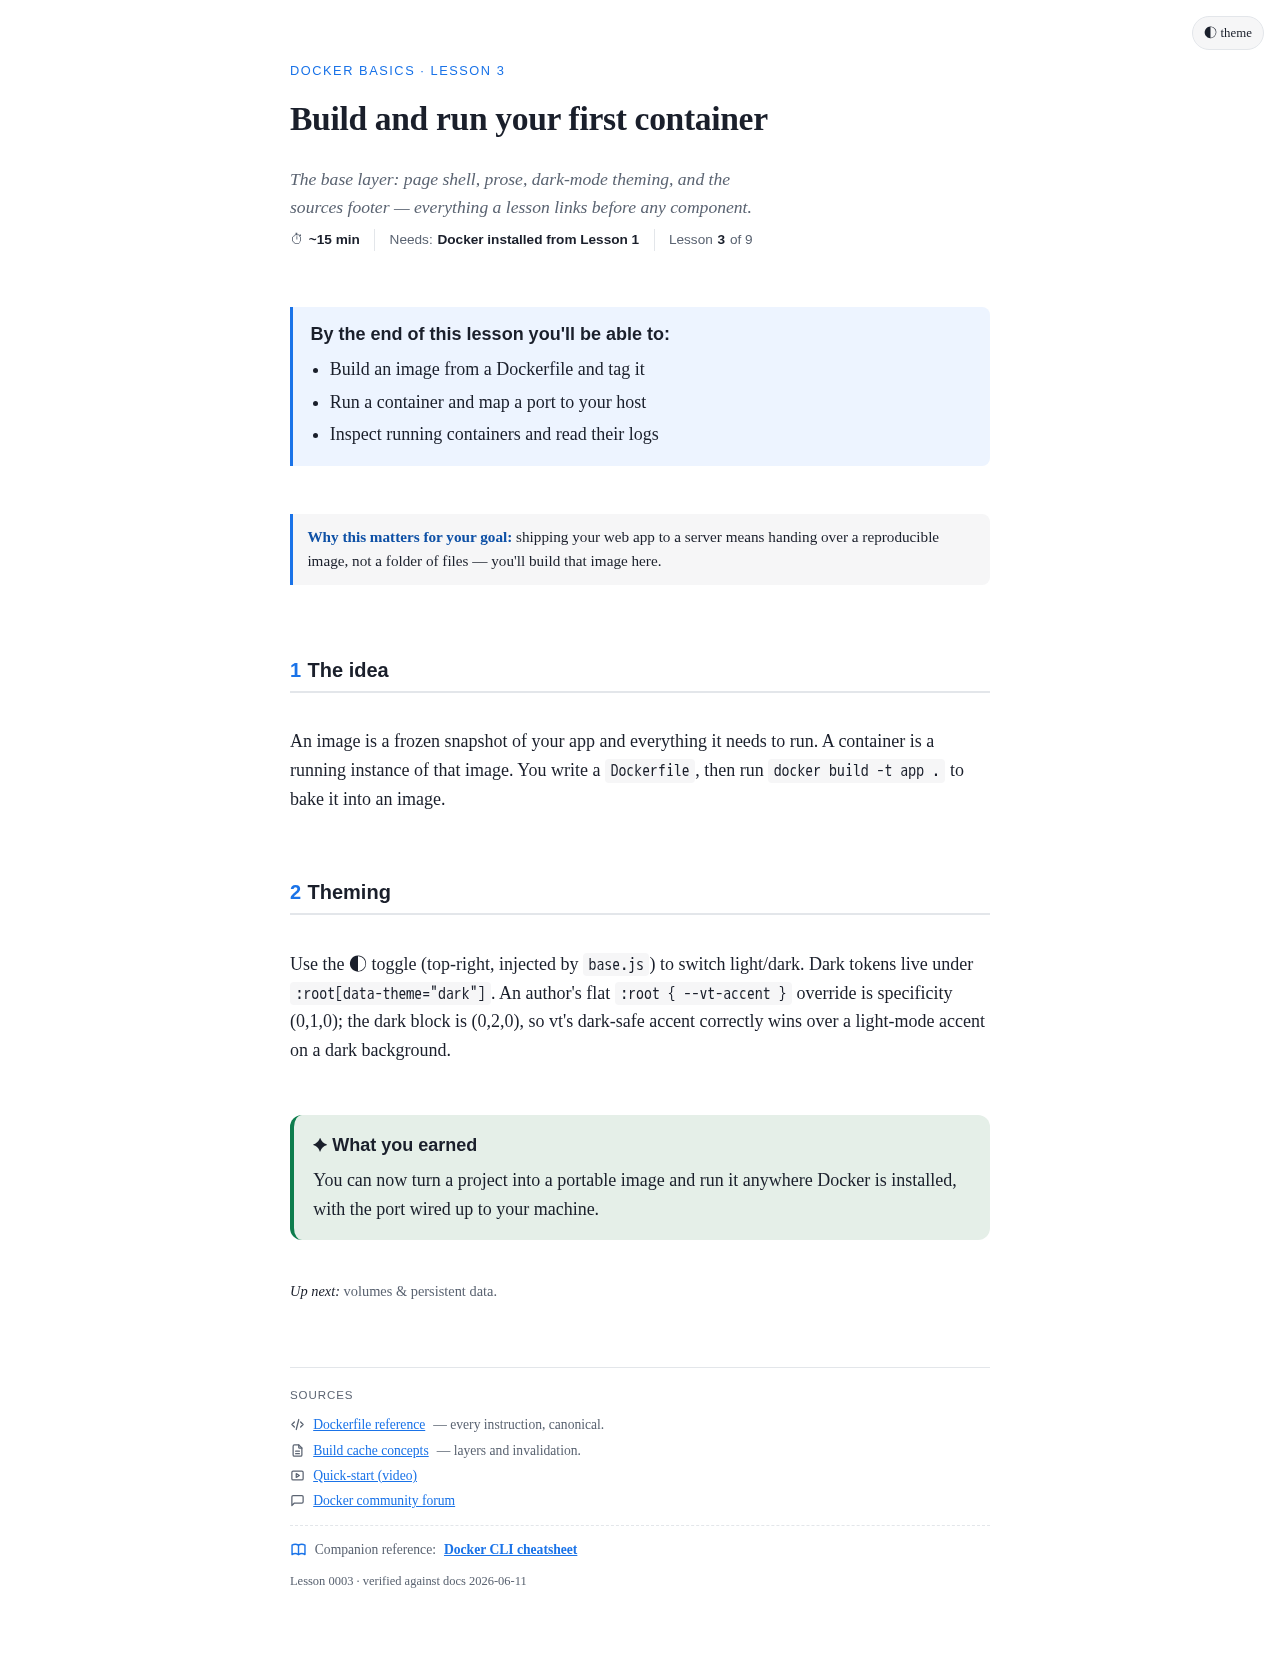
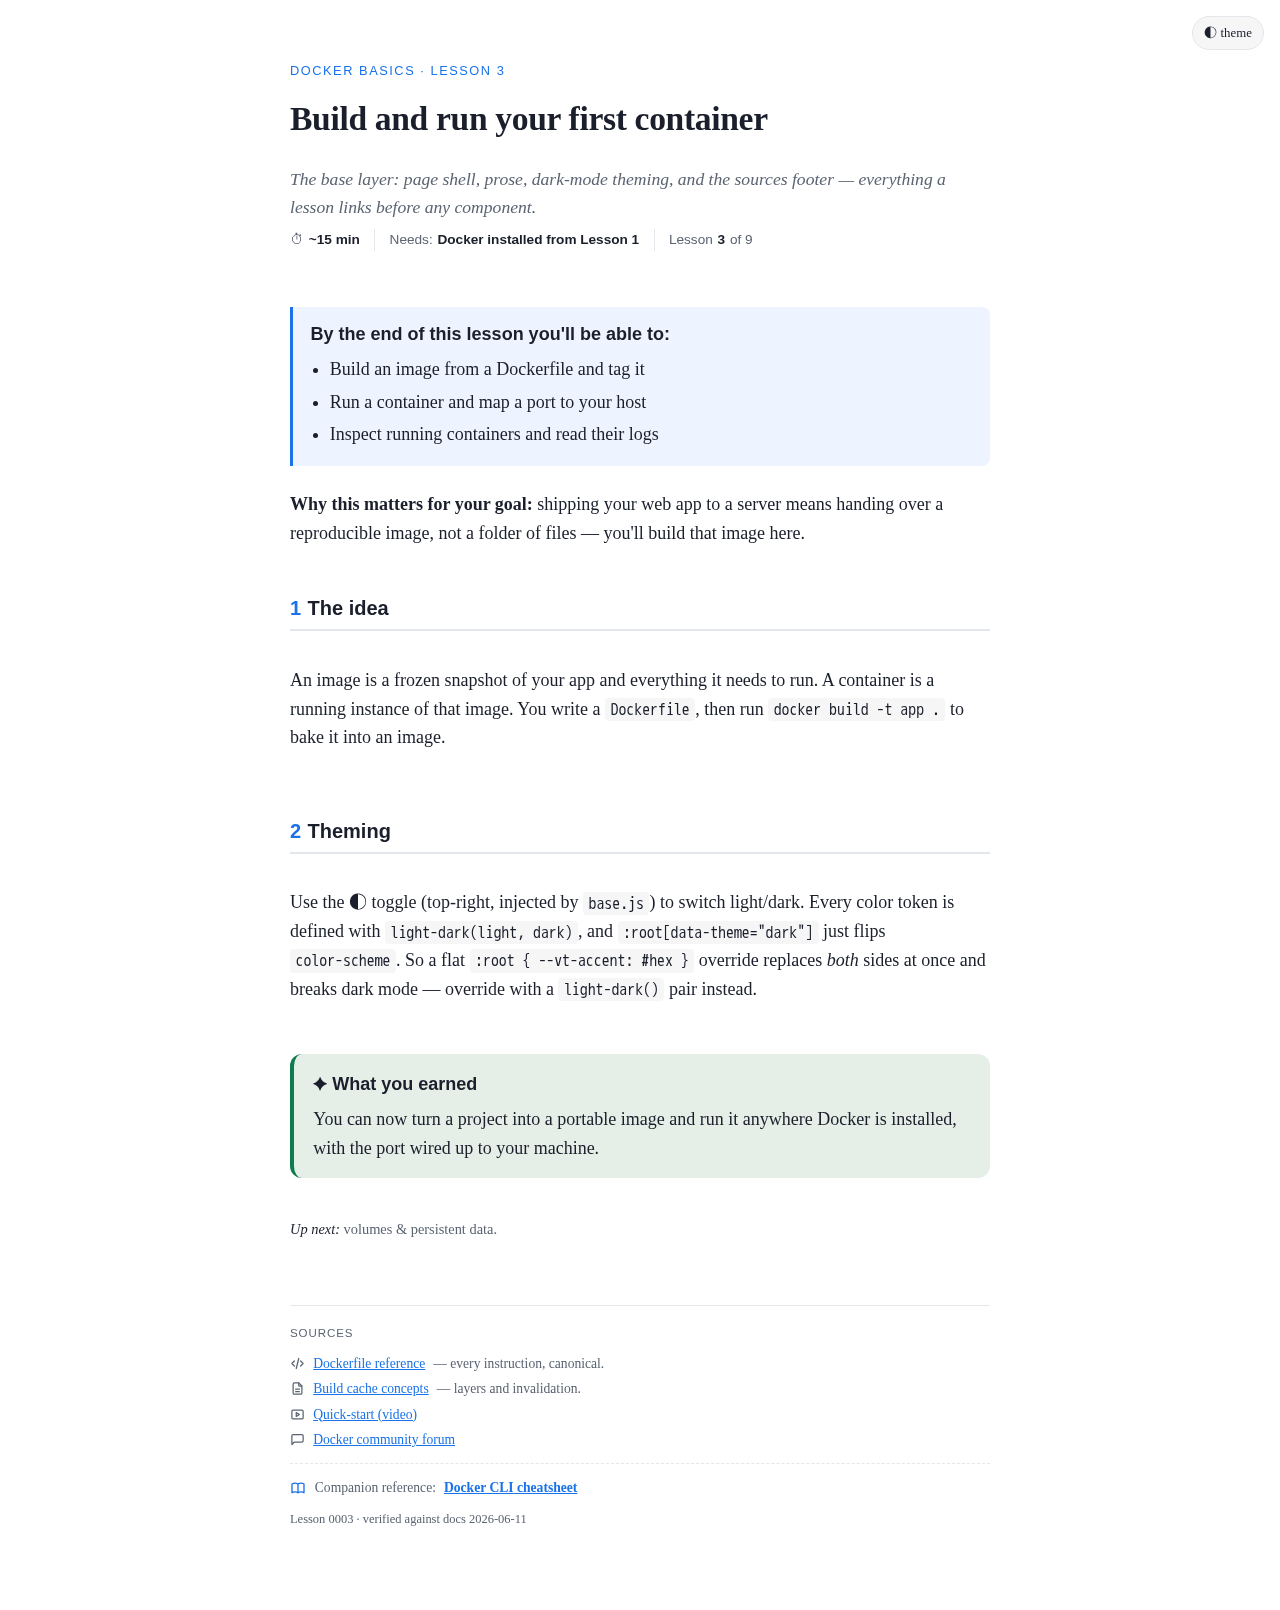
fix(visual-teach): collapse intro card + fix lede/reveal wrapping (#223)
* fix(visual-teach): collapse intro card + fix lede/reveal wrapping

Header polish across the component floor:

- Merge objectives + mission into a single `vt-objectives` intro card;
  author picks whatever sets up the lesson (list, why-it-matters, hook)
  instead of two stacked blocks that doubled header height and pushed
  boilerplate prose. Drop the `vt-mission` class and catalog block.
- `.vt-lede`: drop `text-wrap: balance`, which shrank the subtitle to a
  balanced measure unlike body prose; let it fill the column.
- `.vt-reveal > summary`: replace `display: flex` (which split text and
  inline `<code>` into separate flex items, breaking sentence wrapping)
  with a relative summary + absolutely-positioned marker, so the prompt
  flows as normal text.

Demos re-synced and their orphaned `vt-mission` divs removed.

* test(visual): regen base baselines for collapsed intro card

The single-card intro + removed mission shortens the base demo (1671→1610px
dark). Regenerated base.png / base-dark.png via docker:regen-baselines (CI
container) to match.

---------

diff --git a/assets/base/base.css b/assets/base/base.css
@@ -115,7 +115,6 @@ h1 {
   color: var(--vt-muted);
   font-style: italic;
   margin-bottom: 0.5rem;
-  text-wrap: balance;
 }
 .vt-meta {
   font-family: "Helvetica Neue", Arial, sans-serif;
@@ -258,7 +257,7 @@ a code {
   }
 }
 
-/* shell — objectives card */
+/* shell — intro card (objectives, why-it-matters, hook — author's call) */
 .vt-objectives {
   border-left: 3px solid var(--vt-accent);
   border-radius: 0 8px 8px 0;
@@ -278,17 +277,13 @@ a code {
 .vt-objectives li {
   margin: 0.25rem 0;
 }
-
-/* shell — mission tie-in */
-.vt-mission {
-  border-left: 3px solid var(--vt-accent);
-  border-radius: 0 8px 8px 0;
-  background: var(--vt-soft);
-  padding: 0.7rem 0.9rem;
-  margin: 1.5rem 0;
-  font-size: 0.95rem;
+.vt-objectives p {
+  margin: 0.4rem 0 0;
 }
-.vt-mission strong {
+.vt-objectives p:first-child {
+  margin-top: 0;
+}
+.vt-objectives strong {
   color: var(--vt-accent-dk);
 }
 

diff --git a/demo/adoption-demos/bayes-theorem/visual-teach/assets/base/base.css b/demo/adoption-demos/bayes-theorem/visual-teach/assets/base/base.css
@@ -115,7 +115,6 @@ h1 {
   color: var(--vt-muted);
   font-style: italic;
   margin-bottom: 0.5rem;
-  text-wrap: balance;
 }
 .vt-meta {
   font-family: "Helvetica Neue", Arial, sans-serif;
@@ -258,7 +257,7 @@ a code {
   }
 }
 
-/* shell — objectives card */
+/* shell — intro card (objectives, why-it-matters, hook — author's call) */
 .vt-objectives {
   border-left: 3px solid var(--vt-accent);
   border-radius: 0 8px 8px 0;
@@ -278,17 +277,13 @@ a code {
 .vt-objectives li {
   margin: 0.25rem 0;
 }
-
-/* shell — mission tie-in */
-.vt-mission {
-  border-left: 3px solid var(--vt-accent);
-  border-radius: 0 8px 8px 0;
-  background: var(--vt-soft);
-  padding: 0.7rem 0.9rem;
-  margin: 1.5rem 0;
-  font-size: 0.95rem;
+.vt-objectives p {
+  margin: 0.4rem 0 0;
 }
-.vt-mission strong {
+.vt-objectives p:first-child {
+  margin-top: 0;
+}
+.vt-objectives strong {
   color: var(--vt-accent-dk);
 }
 

diff --git a/demo/adoption-demos/css-flexbox/visual-teach/assets/base/base.css b/demo/adoption-demos/css-flexbox/visual-teach/assets/base/base.css
@@ -115,7 +115,6 @@ h1 {
   color: var(--vt-muted);
   font-style: italic;
   margin-bottom: 0.5rem;
-  text-wrap: balance;
 }
 .vt-meta {
   font-family: "Helvetica Neue", Arial, sans-serif;
@@ -258,7 +257,7 @@ a code {
   }
 }
 
-/* shell — objectives card */
+/* shell — intro card (objectives, why-it-matters, hook — author's call) */
 .vt-objectives {
   border-left: 3px solid var(--vt-accent);
   border-radius: 0 8px 8px 0;
@@ -278,17 +277,13 @@ a code {
 .vt-objectives li {
   margin: 0.25rem 0;
 }
-
-/* shell — mission tie-in */
-.vt-mission {
-  border-left: 3px solid var(--vt-accent);
-  border-radius: 0 8px 8px 0;
-  background: var(--vt-soft);
-  padding: 0.7rem 0.9rem;
-  margin: 1.5rem 0;
-  font-size: 0.95rem;
+.vt-objectives p {
+  margin: 0.4rem 0 0;
 }
-.vt-mission strong {
+.vt-objectives p:first-child {
+  margin-top: 0;
+}
+.vt-objectives strong {
   color: var(--vt-accent-dk);
 }
 

diff --git a/demo/adoption-demos/git-rebase-vs-merge/visual-teach/assets/base/base.css b/demo/adoption-demos/git-rebase-vs-merge/visual-teach/assets/base/base.css
@@ -115,7 +115,6 @@ h1 {
   color: var(--vt-muted);
   font-style: italic;
   margin-bottom: 0.5rem;
-  text-wrap: balance;
 }
 .vt-meta {
   font-family: "Helvetica Neue", Arial, sans-serif;
@@ -258,7 +257,7 @@ a code {
   }
 }
 
-/* shell — objectives card */
+/* shell — intro card (objectives, why-it-matters, hook — author's call) */
 .vt-objectives {
   border-left: 3px solid var(--vt-accent);
   border-radius: 0 8px 8px 0;
@@ -278,17 +277,13 @@ a code {
 .vt-objectives li {
   margin: 0.25rem 0;
 }
-
-/* shell — mission tie-in */
-.vt-mission {
-  border-left: 3px solid var(--vt-accent);
-  border-radius: 0 8px 8px 0;
-  background: var(--vt-soft);
-  padding: 0.7rem 0.9rem;
-  margin: 1.5rem 0;
-  font-size: 0.95rem;
+.vt-objectives p {
+  margin: 0.4rem 0 0;
 }
-.vt-mission strong {
+.vt-objectives p:first-child {
+  margin-top: 0;
+}
+.vt-objectives strong {
   color: var(--vt-accent-dk);
 }
 

diff --git a/demo/adoption-demos/music-intervals/visual-teach/assets/base/base.css b/demo/adoption-demos/music-intervals/visual-teach/assets/base/base.css
@@ -115,7 +115,6 @@ h1 {
   color: var(--vt-muted);
   font-style: italic;
   margin-bottom: 0.5rem;
-  text-wrap: balance;
 }
 .vt-meta {
   font-family: "Helvetica Neue", Arial, sans-serif;
@@ -258,7 +257,7 @@ a code {
   }
 }
 
-/* shell — objectives card */
+/* shell — intro card (objectives, why-it-matters, hook — author's call) */
 .vt-objectives {
   border-left: 3px solid var(--vt-accent);
   border-radius: 0 8px 8px 0;
@@ -278,17 +277,13 @@ a code {
 .vt-objectives li {
   margin: 0.25rem 0;
 }
-
-/* shell — mission tie-in */
-.vt-mission {
-  border-left: 3px solid var(--vt-accent);
-  border-radius: 0 8px 8px 0;
-  background: var(--vt-soft);
-  padding: 0.7rem 0.9rem;
-  margin: 1.5rem 0;
-  font-size: 0.95rem;
+.vt-objectives p {
+  margin: 0.4rem 0 0;
 }
-.vt-mission strong {
+.vt-objectives p:first-child {
+  margin-top: 0;
+}
+.vt-objectives strong {
   color: var(--vt-accent-dk);
 }
 

diff --git a/demo/adoption-demos/regular-expressions/visual-teach/assets/base/base.css b/demo/adoption-demos/regular-expressions/visual-teach/assets/base/base.css
@@ -115,7 +115,6 @@ h1 {
   color: var(--vt-muted);
   font-style: italic;
   margin-bottom: 0.5rem;
-  text-wrap: balance;
 }
 .vt-meta {
   font-family: "Helvetica Neue", Arial, sans-serif;
@@ -258,7 +257,7 @@ a code {
   }
 }
 
-/* shell — objectives card */
+/* shell — intro card (objectives, why-it-matters, hook — author's call) */
 .vt-objectives {
   border-left: 3px solid var(--vt-accent);
   border-radius: 0 8px 8px 0;
@@ -278,17 +277,13 @@ a code {
 .vt-objectives li {
   margin: 0.25rem 0;
 }
-
-/* shell — mission tie-in */
-.vt-mission {
-  border-left: 3px solid var(--vt-accent);
-  border-radius: 0 8px 8px 0;
-  background: var(--vt-soft);
-  padding: 0.7rem 0.9rem;
-  margin: 1.5rem 0;
-  font-size: 0.95rem;
+.vt-objectives p {
+  margin: 0.4rem 0 0;
 }
-.vt-mission strong {
+.vt-objectives p:first-child {
+  margin-top: 0;
+}
+.vt-objectives strong {
   color: var(--vt-accent-dk);
 }
 

diff --git a/demo/adoption-demos/tls-handshake/visual-teach/assets/base/base.css b/demo/adoption-demos/tls-handshake/visual-teach/assets/base/base.css
@@ -115,7 +115,6 @@ h1 {
   color: var(--vt-muted);
   font-style: italic;
   margin-bottom: 0.5rem;
-  text-wrap: balance;
 }
 .vt-meta {
   font-family: "Helvetica Neue", Arial, sans-serif;
@@ -258,7 +257,7 @@ a code {
   }
 }
 
-/* shell — objectives card */
+/* shell — intro card (objectives, why-it-matters, hook — author's call) */
 .vt-objectives {
   border-left: 3px solid var(--vt-accent);
   border-radius: 0 8px 8px 0;
@@ -278,17 +277,13 @@ a code {
 .vt-objectives li {
   margin: 0.25rem 0;
 }
-
-/* shell — mission tie-in */
-.vt-mission {
-  border-left: 3px solid var(--vt-accent);
-  border-radius: 0 8px 8px 0;
-  background: var(--vt-soft);
-  padding: 0.7rem 0.9rem;
-  margin: 1.5rem 0;
-  font-size: 0.95rem;
+.vt-objectives p {
+  margin: 0.4rem 0 0;
 }
-.vt-mission strong {
+.vt-objectives p:first-child {
+  margin-top: 0;
+}
+.vt-objectives strong {
   color: var(--vt-accent-dk);
 }
 

diff --git a/demo/adoption-demos/tls-handshake/visual-teach/lessons/0003-trust-and-failure.html b/demo/adoption-demos/tls-handshake/visual-teach/lessons/0003-trust-and-failure.html
@@ -41,16 +41,6 @@
         </ul>
       </div>
 
-      <div class="vt-mission">
-        <strong>Why this matters for your goal:</strong> This is the lesson the
-        whole course was for. Everything from
-        <a href="0001-what-tls-protects-and-who-is-involved.html">Lesson&nbsp;1</a>
-        (the actors, the certificate) and
-        <a href="0002-the-handshake-step-by-step.html">Lesson&nbsp;2</a> (where in
-        the flow the certificate shows up) now turns into a checklist you can run
-        on a broken connection.
-      </div>
-
       <h2><span class="vt-num">1</span>The chain of trust</h2>
       <p>
         Your client trusts a few dozen <strong>root CAs</strong> baked into its

diff --git a/assets/components/reveal/reveal.css b/assets/components/reveal/reveal.css
@@ -12,17 +12,18 @@
   font-family: "Helvetica Neue", Arial, sans-serif;
   font-weight: 600;
   cursor: pointer;
-  padding: 0.9rem 0.2rem;
+  padding: 0.9rem 0.2rem 0.9rem 1.6rem;
   list-style: none; /* hide default disclosure triangle; we draw our own */
-  display: flex;
-  align-items: baseline;
-  gap: 0.5rem;
+  position: relative; /* anchor the ▸ marker; summary text flows as prose
+                          so inline <code> wraps normally (not as flex items) */
 }
 .vt-reveal > summary::-webkit-details-marker {
   display: none; /* Safari/Chrome legacy marker */
 }
 .vt-reveal > summary::before {
   content: "▸";
+  position: absolute;
+  left: 0.3rem;
   color: var(--vt-accent);
   font-size: 0.9em;
   transition: transform 0.15s;

diff --git a/demo/adoption-demos/bayes-theorem/visual-teach/assets/components/reveal/reveal.css b/demo/adoption-demos/bayes-theorem/visual-teach/assets/components/reveal/reveal.css
@@ -12,17 +12,18 @@
   font-family: "Helvetica Neue", Arial, sans-serif;
   font-weight: 600;
   cursor: pointer;
-  padding: 0.9rem 0.2rem;
+  padding: 0.9rem 0.2rem 0.9rem 1.6rem;
   list-style: none; /* hide default disclosure triangle; we draw our own */
-  display: flex;
-  align-items: baseline;
-  gap: 0.5rem;
+  position: relative; /* anchor the ▸ marker; summary text flows as prose
+                          so inline <code> wraps normally (not as flex items) */
 }
 .vt-reveal > summary::-webkit-details-marker {
   display: none; /* Safari/Chrome legacy marker */
 }
 .vt-reveal > summary::before {
   content: "▸";
+  position: absolute;
+  left: 0.3rem;
   color: var(--vt-accent);
   font-size: 0.9em;
   transition: transform 0.15s;

diff --git a/demo/adoption-demos/css-flexbox/visual-teach/assets/components/reveal/reveal.css b/demo/adoption-demos/css-flexbox/visual-teach/assets/components/reveal/reveal.css
@@ -12,17 +12,18 @@
   font-family: "Helvetica Neue", Arial, sans-serif;
   font-weight: 600;
   cursor: pointer;
-  padding: 0.9rem 0.2rem;
+  padding: 0.9rem 0.2rem 0.9rem 1.6rem;
   list-style: none; /* hide default disclosure triangle; we draw our own */
-  display: flex;
-  align-items: baseline;
-  gap: 0.5rem;
+  position: relative; /* anchor the ▸ marker; summary text flows as prose
+                          so inline <code> wraps normally (not as flex items) */
 }
 .vt-reveal > summary::-webkit-details-marker {
   display: none; /* Safari/Chrome legacy marker */
 }
 .vt-reveal > summary::before {
   content: "▸";
+  position: absolute;
+  left: 0.3rem;
   color: var(--vt-accent);
   font-size: 0.9em;
   transition: transform 0.15s;

diff --git a/demo/adoption-demos/css-flexbox/visual-teach/lessons/0002-distributing-and-aligning.html b/demo/adoption-demos/css-flexbox/visual-teach/lessons/0002-distributing-and-aligning.html
@@ -41,15 +41,6 @@
         </ul>
       </div>
 
-      <div class="vt-mission">
-        <strong>Why this matters for your goal:</strong> this is the lesson that
-        kills the margin hacks. "Center this box," "push the logo left and the
-        menu right," "space these buttons evenly" — all three are one declaration
-        each once you know which axis they act on. You bring the
-        <strong>main / cross</strong> axes from Lesson 1; here you learn the two
-        properties that ride them.
-      </div>
-
       <h2><span class="vt-num">1</span><code>justify-content</code> — along the main axis</h2>
       <p>
         <code>justify-content</code> decides how items sit along the